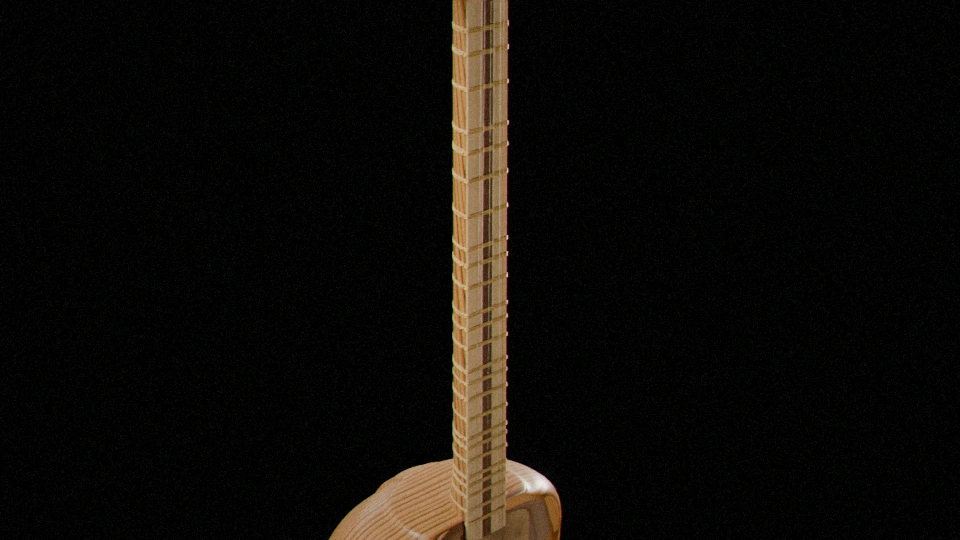
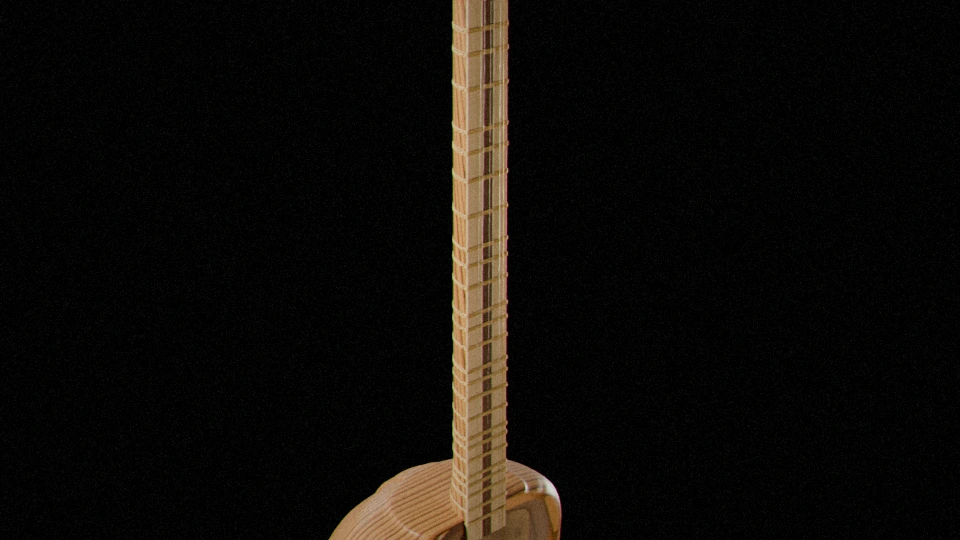
Render: light holds up when the tar tips over backwards (round 9)
New 'fall' test renders 20 tip-over poses and measures burnt-out pixels. The small
back light was the culprit; it is now larger, dimmer and lower, the window sits
lower with softer glints, a black flag blocks light from straight above, and the
photo finish rolls highlights off with a soft shoulder. Burnt pixels: 0% in all poses.

Claude-Session: https://claude.ai/code/session_01G1uTAfhbgKsxoFAeno84xV

diff --git a/render/build_scene.py b/render/build_scene.py
@@ -281,7 +281,7 @@ def skin_material():
     src = bsdf.inputs['Base Color'].links[0].from_socket
     lift = nt.nodes.new('ShaderNodeMix'); lift.data_type = 'RGBA'; lift.blend_type = 'MULTIPLY'
     lift.inputs['Factor'].default_value = 1.0
-    lift.inputs['B'].default_value = (2.15, 1.8, 1.3, 1.0)
+    lift.inputs['B'].default_value = (1.95, 1.65, 1.2, 1.0)
     nt.links.new(src, lift.inputs['A']); nt.links.new(lift.outputs['Result'], bsdf.inputs['Base Color'])
     trans = nt.nodes.new('ShaderNodeBsdfTranslucent'); trans.inputs['Color'].default_value = srgb('#d9c4a8')
     mix = nt.nodes.new('ShaderNodeMixShader'); mix.inputs['Fac'].default_value = 0.06
@@ -392,7 +392,11 @@ def add_window_light():
         l.data.energy = energy; l.data.color = colour
         l.rotation_euler = (target - l.location).normalized().to_track_quat('-Z', 'Y').to_euler()
         return l
-    window = area('window', (-1.7, -1.1, 1.75), 1.1, 1.5, 230, (1.0, 0.93, 0.83))
+    # Round 9: the window sits lower and more to the side, so faces turned up to the ceiling
+    # while the instrument tips over (the skin above all) are not hit head-on; its glints on
+    # the satin finish are toned down so they never burn a part of the instrument out.
+    window = area('window', (-2.0, -0.8, 1.05), 1.1, 1.5, 230, (1.0, 0.93, 0.83))
+    window.data.specular_factor = 0.55
     # the window frame: two crossing bars just in front of the glass, seen by the light only
     d = (target - window.location).normalized()
     for k, (sx, sy) in enumerate(((0.035, 1.6), (1.2, 0.035))):
@@ -403,7 +407,15 @@ def add_window_light():
         # off-centre, as a real window never lines up with the subject
         bar.location += window.matrix_world.to_3x3() @ Vector((0.12, -0.18, 0))
     area('bounce', (1.4, -0.9, -0.35), 1.6, 1.0, 45, (1.0, 0.78, 0.55))
-    area('rim', (1.0, 1.5, 1.2), 0.35, 0.35, 140, (1.0, 0.9, 0.78))
+    # the back light: still a touch hot on the edges, but larger, dimmer and lower than in
+    # round 8 — when the tar tips over backwards its upturned faces look straight into it,
+    # and the small bright one burnt the skin and top out (measured: 1% of the instrument)
+    rim = area('rim', (1.1, 1.6, 0.55), 0.8, 0.6, 75, (1.0, 0.9, 0.78))
+    rim.data.specular_factor = 0.45
+    # a black flag overhead, as photographers use: no light straight down onto upturned faces
+    bpy.ops.mesh.primitive_plane_add(size=1, location=PIVOT + Vector((-0.2, 0, 1.6)))
+    flag = bpy.context.object; flag.name = 'flag'; flag.scale = (2.2, 1.6, 1)
+    flag.visible_camera = False; flag.visible_glossy = False
     return window
 
 
@@ -523,6 +535,16 @@ def main(argv):
         for k in SCENES['keyframes'][1:]:
             apply_pose(pivot, cam, k['yaw'], k['pitch'], k['target'], k['dist'], k['elev'], k.get('aperture', 0))
             render(sc, out / f"scene_{k['caption']}.png", seed=k['caption'], raw_dir=out / 'raw')
+    elif mode == 'fall':
+        # the instrument tipping over backwards (pitch down to -90°), straight on and turned,
+        # to check the window light never burns parts of it out (round 9)
+        sc, pivot, cam = setup(960, 540, 32)
+        out = BUILD / os.environ.get('TAR_TEST_DIR', 'fall'); out.mkdir(parents=True, exist_ok=True)
+        c = SCENES['pivot']
+        for yaw in (0, -35, -90, 180):
+            for pitch in (0, -30, -60, -75, -90):
+                apply_pose(pivot, cam, yaw, pitch, [c['x'], c['y'], c['z']], 250, 0)
+                render(sc, out / f'y{yaw:+04d}_p{pitch:+03d}.png', seed=(yaw + 360) * 100 + pitch + 100, raw_dir=out / 'raw')
     elif mode == 'scroll':
         start, end = int(argv[1]), int(argv[2])
         total = int(argv[3]) if len(argv) > 3 else 240

diff --git a/render/photo_finish.py b/render/photo_finish.py
@@ -7,7 +7,8 @@ instrument never look like that, and the eye notices. This adds, gently:
 - exposure that is not perfectly even across the frame (a light that falls off);
 - a soft halo round the brightest highlights (bloom of a real lens);
 - a trace of colour fringing towards the edges (lateral chromatic aberration);
-- sensor grain, stronger in the shadows, different in every frame.
+- sensor grain, stronger in the shadows, different in every frame;
+- a soft shoulder in the highlights, as film and good sensors have, so nothing burns to white.
 
 Every effect is seeded and depends only on the frame's position, so a frame re-rendered
 later is identical, and neighbouring frames differ only in their grain.
@@ -37,6 +38,12 @@ def finish(img, seed=0, grain=1.0):
     # normalised coordinates, -1…1 on the short side
     s = min(w, h) / 2
     x, y = (xx - w / 2) / s, (yy - h / 2) / s
+
+    # 0. a film-like shoulder: tones above 0.78 roll off gently instead of clipping, so
+    # a brightly lit face keeps its grain and texture (round 9)
+    k = 0.78
+    over = np.maximum(a - k, 0)
+    a = np.minimum(a, k) + (1 - k) * (1 - np.exp(-over / (1 - k)))
 
     # 1. bloom: a soft halo round the highlights
     lum = a @ np.array([0.2126, 0.7152, 0.0722], dtype=np.float32)

diff --git a/docs/tar-3d/SPEC.md b/docs/tar-3d/SPEC.md
@@ -727,3 +727,22 @@ docs/tar-3d/test/    عکسها و گزارش تست فاز ۷
 |-------|------------------|------------------|
 | نور پنجره، اتاق تاریکتر، بازتاب گرم، نور پشتی | فاز ۶ — نور و رندر سینمایی | ر۳ — نور و دوربین |
 | نقصهای لنز و حسگر | فاز ۶ | ر۳ (اعمال در ر۴ روی همهی فریمها) |
+
+## ۱۹. دور اصلاح ۹ — نور در حالت افتادن ساز به عقب (۱۴۰۵/۰۷/۱۱)
+
+**درخواست کاربر:** در نسخهی نهایی ساز به عقب برمیگردد و تا ۹۰ درجه به سمت پشت میچرخد (انگار میافتد)؛ نور نباید در این حالت قسمتهایی از ساز را آنقدر روشن کند که دیده نشوند یا مصنوعی به نظر برسند.
+
+**آزمون (`build_scene.py fall`):** ۲۰ حالت — چرخش افقی ۰، ۳۵-، ۹۰- و ۱۸۰ درجه × خم شدن به عقب ۰، ۳۰-، ۶۰-، ۷۵- و ۹۰- درجه — و اندازهگیری سهم پیکسلهای ساز که کاملاً سفید (سوخته) یا نزدیک به سفید شدهاند، روی رندر خام.
+
+| | بیشترین «سوخته» | بیشترین «نزدیک سفید» |
+|---|---|---|
+| نور دور ۸ | ۰٫۴۴٪ (۳۵- / ۷۵-) | ۱٫۰۴٪ |
+| نور دور ۹ | ۰٫۰۰٪ در هر ۲۰ حالت | ۰٫۵۰٪ (۹۰- / ۹۰-، بدون سوختگی) |
+
+**علت و اصلاح:** آزمونِ خاموش کردن تکتک نورها نشان داد مقصر نور پشتی کوچک بود، نه پنجره: وقتی ساز به عقب میافتد، پوست و صفحهی رو مستقیم به آن نگاه میکنند. نور پشتی بزرگتر، کمنورتر و پایینتر شد و انعکاسش روی پرداخت ساتن کمتر. پنجره هم پایینتر و کناریتر شد و انعکاسش کمتر، و یک «پرچم» سیاه بالای ساز (مثل عکاسی) نور را از بالای سرِ رویههای رو به سقف میگیرد. در `photo_finish.py` شانهی نرمِ روشنیها اضافه شد (بالای ۰٫۷۸ بهجای بریدن، آرام فشرده میشود). روشنیِ پوست ۱۰٪ کمتر شد. حس نور پنجره و نقصهای عکاسی دور ۸ دست نخورده است.
+
+| تغییر | فاز در طرح اصلی | فاز در راه حل ۲ |
+|-------|------------------|------------------|
+| نورها، پرچم، آزمون افتادن | فاز ۶ | ر۳ |
+| شانهی روشنیها | فاز ۶ | ر۳ (اعمال در ر۴) |
+| حرکت افتادن به عقب در مسیر اسکرول | فاز ۶ (مسیر اسکرول) | ر۴ (کلیدفریمها) — در انتظار تصمیم کاربر دربارهی جای آن |
